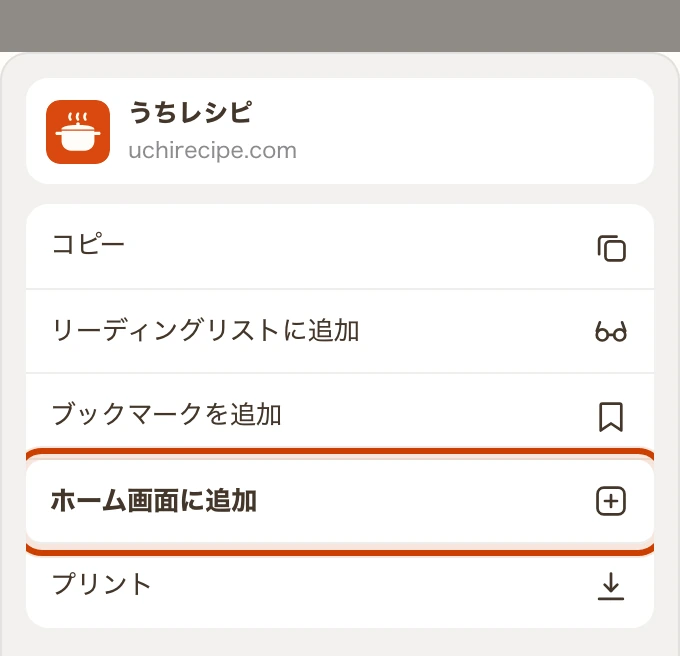
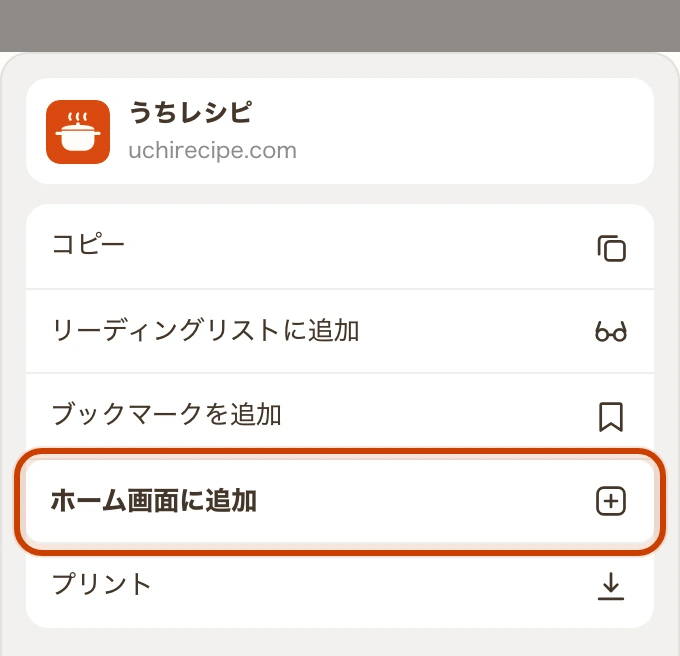
便EP 群B: ホーム画面追加ページ9件(オーナー実機)
6. 「ホーム画面に追加してお使いいただくのがおすすめです」と推奨を明示した
7. 「ブラウザで動くWebアプリです」「ほかのアプリと同じようにご利用いただけます」「アプリと同じ見た目で使えます」を入れた
8. 「追加しなくてもブラウザのまま」は推奨と同列に置かず※の注記に下げた
9. 「図は説明のために描いたものです」を削除(作り手の事情でしかない)。後続の「実際の画面は…少し違います」は読み手に要るので残した
10. iPhone手順③・Android手順③の赤い囲みが一覧のふちで切られていたのを直した(shots-install.mjs の overflow:hidden を外し、Androidのメニューを右へ4px寄せた)
11. 「インストール不要」は、Android・パソコンで「インストール」を押してもらう案内と食い違うので掃引。紹介ページ上部と特商法の動作環境を「アプリストアからのダウンロードは不要」に改めた
12. iPhone・iPadのChromeでも共有ボタンから追加できる旨を1行追記し、「Safariで開き直してください」を最後の手段の言い方に直した。データが分かれる注記も「Safari」→「ブラウザ」に一般化
13. ボタン下の「うちレシピの画面を開いてから追加します」を削除
14. パソコンで追加したあとの窓(オレンジ色の帯にアイコンと名前)を図に足した

Changed region(s): [[0.0, 0.7012, 0.0618, 0.8537], [0.9574, 0.6707, 0.9882, 0.8537]]

diff --git a/public/about/install.html b/public/about/install.html
@@ -266,11 +266,18 @@
   </header>
 
   <h1>ホーム画面に追加する方法</h1>
-  <p class="lead">ホーム画面に追加すると、全画面で使えて、開くのも速くなります。追加しなくてもブラウザのままお使いいただけます。</p>
+  <!-- 2026-08-09 便EP(オーナー実機): ①ホーム画面への追加が推奨だと言い切る
+       ②アプリとして使えることを文言に入れる ③「追加しなくてもブラウザのまま使える」は
+       推奨と同列に置かず※の注記に下げる -->
+  <p class="lead">うちレシピは、ブラウザで動くWebアプリです。ホーム画面に追加してお使いいただくのがおすすめです。</p>
+  <p class="lead">アイコンから開くと全画面で表示され、開くのも速くなります。ほかのアプリと同じようにご利用いただけます。</p>
+  <p class="muted">※ホーム画面に追加しなくても、ブラウザのままご利用いただけます。</p>
 
   <figure class="shot" style="--w:340px">
-    <img src="/about/img/install/home-icon.webp" width="680" height="226" loading="eager" decoding="async" alt="スマートフォンのホーム画面。ほかのアプリと並んで、鍋のマークの「うちレシピ」のアイコンが置かれている">
-    <figcaption>追加すると、ホーム画面にアイコンが増えます</figcaption>
+    <!-- 2026-08-09 便EP(オーナー実機報告): パソコンで追加したあとの、オレンジ色の帯に
+         アイコンが出る窓を図に足した -->
+    <img src="/about/img/install/home-icon.webp" width="680" height="752" loading="eager" decoding="async" alt="上はスマートフォンのホーム画面で、ほかのアプリと並んで鍋のマークの「うちレシピ」のアイコンが置かれている。下はパソコンで開いたうちレシピの窓で、オレンジ色の帯に鍋のマークのアイコンと「うちレシピ」の名前が出ている">
+    <figcaption>追加すると、スマートフォンではホーム画面にアイコンが増え、パソコンではうちレシピだけの窓で開きます</figcaption>
   </figure>
 
   <div class="note">
@@ -278,7 +285,8 @@
     <p>ホーム画面には、そのとき開いているページが追加されます。追加する前に <code>https://uchirecipe.com/</code> を開いてください。</p>
   </div>
 
-  <p class="muted">図は説明のために描いたものです。実際の画面は、端末とブラウザの版によって少し違います。</p>
+  <!-- 2026-08-09 便EP(オーナー指示): 「図は説明のために描いたものです」は作り手側の事情でしかないため削除 -->
+  <p class="muted">実際の画面は、端末とブラウザの版によって少し違います。</p>
 
   <nav class="jump" aria-label="端末ごとの手順">
     <a href="#iphone">iPhone・iPad</a>
@@ -306,19 +314,23 @@
     <li>名前を確かめて、画面の右上の「追加」を押します。</li>
   </ol>
 
+  <!-- 2026-08-09 便EP(オーナー実機): iPhoneのChromeでも共有ボタンから追加できることを確認したため
+       追記した。手順の本筋と図はSafariのままにして、ややこしくならない範囲の1行に留める -->
+  <p class="muted">iPhone・iPadのChromeでも、同じ共有ボタン（四角から上向きの矢印が出たマーク）から追加できます。ボタンの位置はブラウザによって変わります。</p>
+
   <div class="note">
     <strong>「ホーム画面に追加」が見つからないとき</strong>
     <ul class="plain">
       <li>一覧を下までスクロールすると出てきます</li>
-      <li>Safari以外のブラウザで開いているときは、いったんSafariで開き直してください</li>
+      <li>それでも見当たらないときは、Safariで開き直してください</li>
     </ul>
   </div>
 
   <div class="note">
-    <strong>Safariでレシピを登録したあとに追加するとき</strong>
-    <p>iPhone・iPadでは、Safariの画面とホーム画面のアイコンから開いた画面とで、保存されるデータが分かれます。Safariで登録したレシピは、次の手順で移せます。</p>
+    <strong>ブラウザでレシピを登録したあとに追加するとき</strong>
+    <p>iPhone・iPadでは、ブラウザの画面とホーム画面のアイコンから開いた画面とで、保存されるデータが分かれます。ブラウザで登録したレシピは、次の手順で移せます。</p>
     <ul class="plain">
-      <li>Safariの画面で、設定の「バックアップ」→「ファイルに書き出す」を押してファイルを保存します</li>
+      <li>ブラウザの画面で、設定の「バックアップ」→「ファイルに書き出す」を押してファイルを保存します</li>
       <li>ホーム画面のアイコンから開いて、設定の「バックアップ」→「今のデータに追加」でそのファイルを読み込みます</li>
     </ul>
   </div>
@@ -362,15 +374,16 @@
 
   <h2>追加したあとの使い方</h2>
   <ul class="plain">
-    <li>アイコンから開くと、アドレスバーやタブが出ない全画面で表示されます</li>
+    <li>アイコンから開くと、アドレスバーやタブが出ない全画面になり、アプリと同じ見た目で使えます</li>
     <li>一度開いたあとなら、電波のない場所でも登録済みのレシピを見られます</li>
     <li>ブラウザで開く使い方も、これまでどおり続けられます</li>
     <li>Android・パソコンでは、ブラウザで開いたときと同じデータが出ます</li>
   </ul>
   <p class="muted">ホーム画面から削除する前に、設定の「バックアップ」→「ファイルに書き出す」でファイルを保存してください。削除すると、登録したレシピも一緒に消えることがあります。</p>
 
+  <!-- 2026-08-09 便EP(オーナー指示): ボタンの下にあった「うちレシピの画面を開いてから追加します」は
+       かえって手順を分かりにくくするため削除(同じことはページ上部の注記で伝えている) -->
   <a class="cta" href="/">うちレシピを開く</a>
-  <p class="cta-note">うちレシピの画面を開いてから追加します</p>
 
   <a class="back" href="/about/">← うちレシピについて に戻る</a>
 

diff --git a/public/about/index.html b/public/about/index.html
@@ -529,7 +529,9 @@
     <img src="/icon.svg" alt="" aria-hidden="true">
     <p>うちレシピ</p>
   </header>
-  <p class="top-label">ブラウザで開くだけ。インストールも会員登録もいりません</p>
+  <!-- 2026-08-09 便EP(オーナー指摘): 追加手順では「インストール」を押してもらう場面があるため、
+       「インストール不要」は事実と食い違う。アプリストアからのダウンロードが不要である旨に改めた -->
+  <p class="top-label">ブラウザで開くだけ。アプリストアからのダウンロードも会員登録もいりません</p>
 
   <h1>レシピを集めて登録。<br>できることが増える。</h1>
   <p class="lead">ネットで見つけたレシピはURLを貼るだけ。家で作ってきた味は、手入力やまとめて入力で。<br>うちレシピに登録すると、調理中の大きな手順表示・カロリーと材料費の概算・献立と買い物メモまで、そのレシピで使えるようになります。</p>

diff --git a/public/about/tokushoho.html b/public/about/tokushoho.html
@@ -187,7 +187,10 @@
       </tr>
       <tr>
         <th>動作環境</th>
-        <td>スマートフォン・パソコンの主要ブラウザ（iOS Safari、Android Chrome 等）。アプリのインストールは不要です（ホーム画面への追加に対応）。</td>
+        <!-- 2026-08-09 便EP: 「アプリのインストールは不要」は、Android・パソコンでホーム画面へ
+             追加するときに「インストール」を押してもらう案内と食い違うため、
+             アプリストアからのダウンロードが不要である旨に改めた（内容の変更はない） -->
+        <td>スマートフォン・パソコンの主要ブラウザ（iOS Safari、Android Chrome 等）。アプリストアからのダウンロードは不要で、ブラウザで開いてご利用いただけます（ホーム画面への追加にも対応）。</td>
       </tr>
     </tbody>
   </table>
